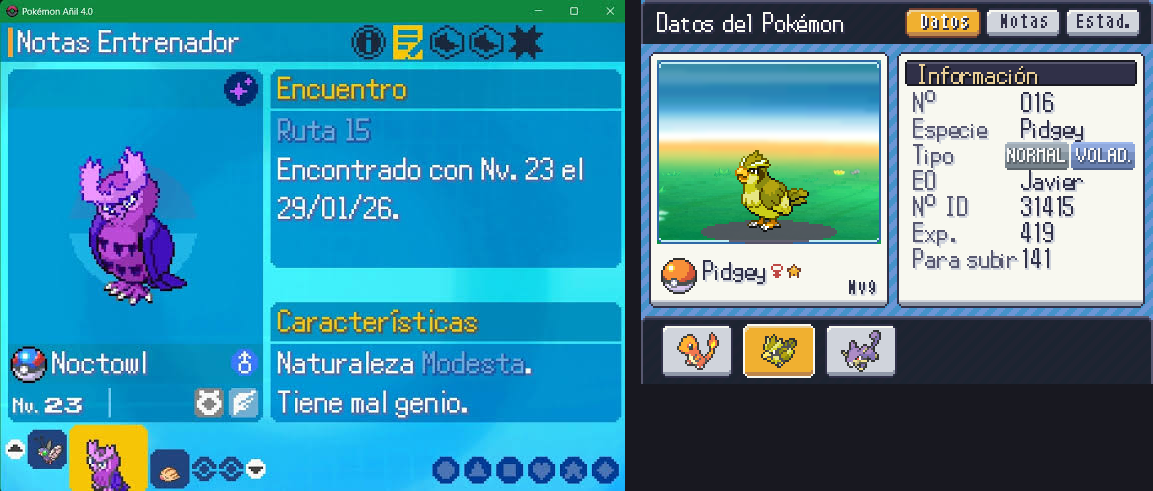
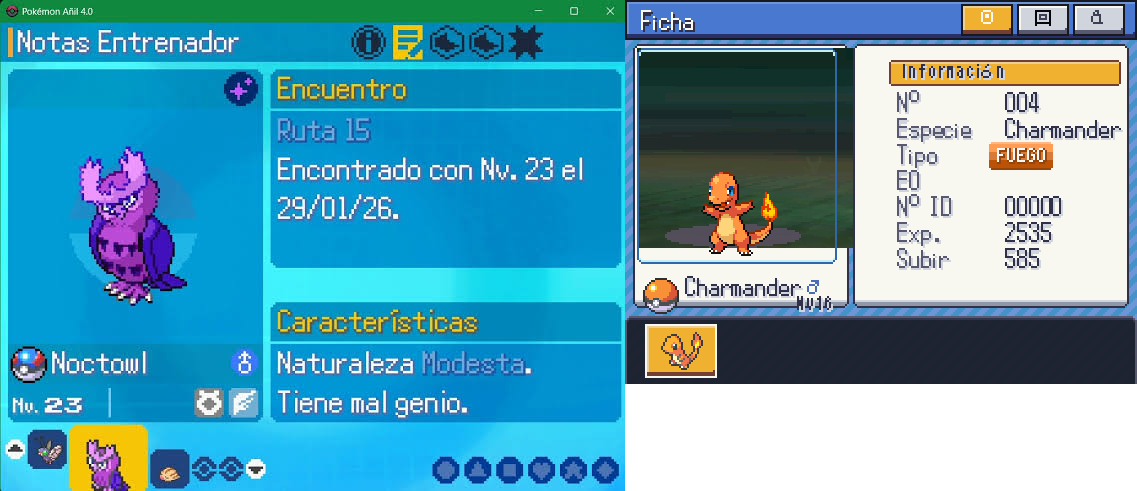
Ficha del Pokémon con color propio, pestañas con icono y más datos
Fondo saturado y cabeceras amarillas, sprite más grande, y en Notas el
encuentro, la naturaleza y el carácter. Comparativa junto a Añil.

diff --git a/docs/ESTADO.md b/docs/ESTADO.md
@@ -184,7 +184,7 @@ Hay carpetas nuevas en el reparto (`DIRECTRICES.md` §6). Cada agente: confirmad
 
 **He leído** (2026-10-05, sesión de 4 agentes) el último aviso, las respuestas de Javier, la tabla de propiedad nueva y mi lista de «Próxima sesión». El arte del mundo y de los entrenadores es del Agente 4; yo sigo con la interfaz, el audio, los datos de entrenadores y `TrainerNPC`. Worktree `pokemon-panchito-agente3`, rama `feat/agente3-sesion`.
 
-**En qué estoy:** lista de la sesión, de arriba abajo. ✅ Tareas 1 y 2. Siguiente: tarea 3, ficha del Pokémon rehecha.
+**En qué estoy:** lista de la sesión, de arriba abajo. ✅ Tareas 1 a 3. Siguiente: tarea 4, menú inicial de la Fase 15.2.
 
 ### Traspaso al Agente 4 — entrenadores Panchito (pack 11)
 
@@ -200,6 +200,7 @@ Hay carpetas nuevas en el reparto (`DIRECTRICES.md` §6). Cada agente: confirmad
 - **Decisiones que no tomé** (aspecto de cada clase: ropa, pelo, color de piel): son tuyas, y cada sprite queda pendiente de Javier en `docs/arte/seguimiento.md`. Si una clase necesita una pieza que el pack no tiene, pregunta a Javier en vez de dibujarla por código.
 
 **Terminado:**
+- **Ficha rehecha** (respuesta de Javier, 2026-10-05): fondo saturado (agua y hierba, sin gris), cabeceras amarillas, pestañas con icono, sprite más grande, y en Notas el encuentro, la naturaleza y el carácter. Comparativa: `docs/arte/comparativas/datos_lado_a_lado.png`.
 - **Combate, respuesta 12** (2026-10-05): botones con borde oscuro y relieve (luz arriba, sombra abajo) en `assets/_fuentes/ui/boton.px`. La hierba usa el fondo *Forest* del pack 10 (el más verde; ninguno trae árboles). Hueco de bases: `assets/sprites/ui/battle/bases/<entorno>.png`, con `default.png` provisional (óvalo propio) mientras no llegue EBDX. Comparativa: `docs/arte/comparativas/combate_lado_a_lado.png`.
 - **Validador de arte a 0 errores** (petición 26, 2026-10-05): tilesets, personajes, efectos y Pokémon de los packs se comprueban solo en tamaño; regla `grid` para los Pokémon que te siguen (4×4) y los iconos (2×1) con cuadros cuadrados de cualquier lado (los Pokémon grandes del pack traen cuadros de 70, 80 o 128); efectos y `objects.png` en cuadros de 32; `pack_exceptions` para lo que el pack trae con un tamaño raro (solo avisa). La lógica pasa a `tools/arte/art_validator.gd` y **ahora es un test** (`tests/ui/test_arte.gd`), así que `main` no puede volver a tener errores sin que falle la suite. Quedan 4 avisos: petición 29.
 - **Regla R.2 en el contenido** (peticiones 16 y 11, 2026-10-05): `data/starters.json` (Kanto provisional, pregunta 1), `gifts.json`, `statics.json` y `trades.json` (vacíos, con formato y ejemplo en comentarios). `Dialogue.format_text()` resuelve los marcadores `{starter:…}`, `{gift:…}`, `{static:…}`, `{trade:…}`, `{species:…}` e `{item:…}` con `DataDB.resolve_markers()`, también con el parche de RandomLocke. **Dinero `₽`** dibujado a mano como fuente bitmap de respaldo del Theme (*Truth and Ideals* no lo trae), en las dos fuentes; apuntado en `docs/arte/seguimiento.md` para que lo apruebe Javier.

diff --git a/docs/arte/seguimiento.md b/docs/arte/seguimiento.md
@@ -53,5 +53,5 @@ Dibujado a mano píxel a píxel con la paleta maestra en archivos de texto (`ass
 | Destello de shiny (`ui/battle/shiny_sparkle.png`, 3 frames) | Animación de combate | A3 | animado | Propio | ⏳ | DIRECTRICES §8. El sonido `shiny` falta (no hay pack de sonidos) |
 | Poké Ball de la captura (`ui/battle/ball.png`) | Combate | A3 | integrado | Propio | ⏳ | La sacudida es un movimiento de 1 píxel, sin rotar |
 | Cursor y flecha de continuar (`ui/cursor_*.png`) | UI | A3 | animado | Propio | ⏳ | |
-| Ficha del Pokémon: ventana, fondo de rayas y cabeceras (`ui/summary/`) | UI | A3 | integrado | Propio | ⏳ | |
+| Ficha del Pokémon: ventana, fondo saturado, cabeceras amarillas e iconos de pestaña (`ui/summary/`) | UI | A3 | integrado | Propio | ⏳ | Respuesta de Javier: sin gris dominante, sprite más grande, encuentro, naturaleza y carácter. Comparativa `datos_lado_a_lado.png` |
 | Símbolo del dinero `₽` (`assets/fonts/pokedolar/`, fuentes `assets/_fuentes/fuentes/pokedolar*.px`) | Glifo de fuente | A3 | integrado | Propio | ⏳ | *Truth and Ideals* no lo trae (petición 11). Una P con dos barras en el palo, con el trazo de 1 px y la altura de las mayúsculas de cada fuente (6×10 la normal, 4×7 la pequeña). Va como fuente de respaldo del Theme, así que sale en cualquier texto con `₽` |
